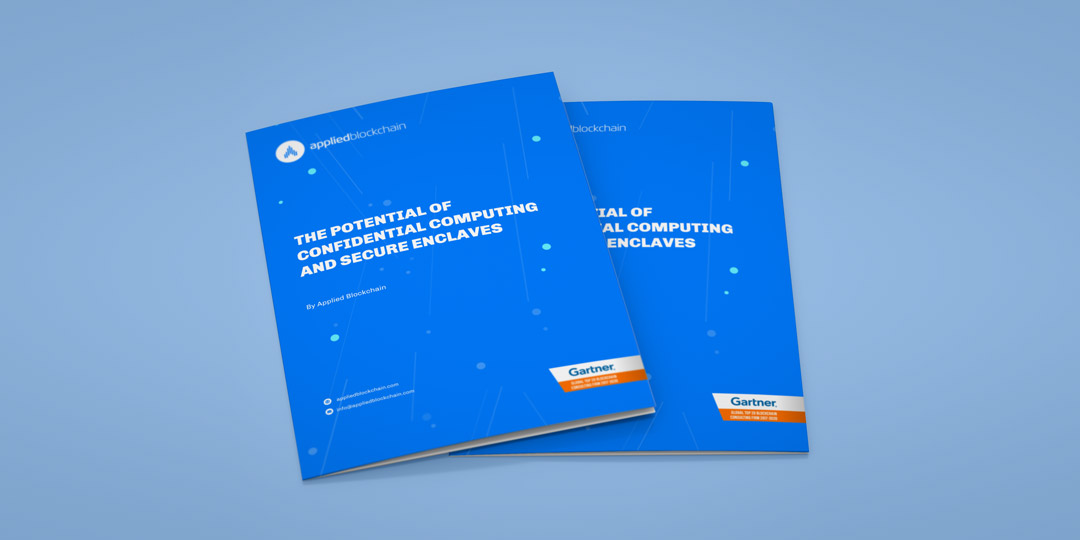
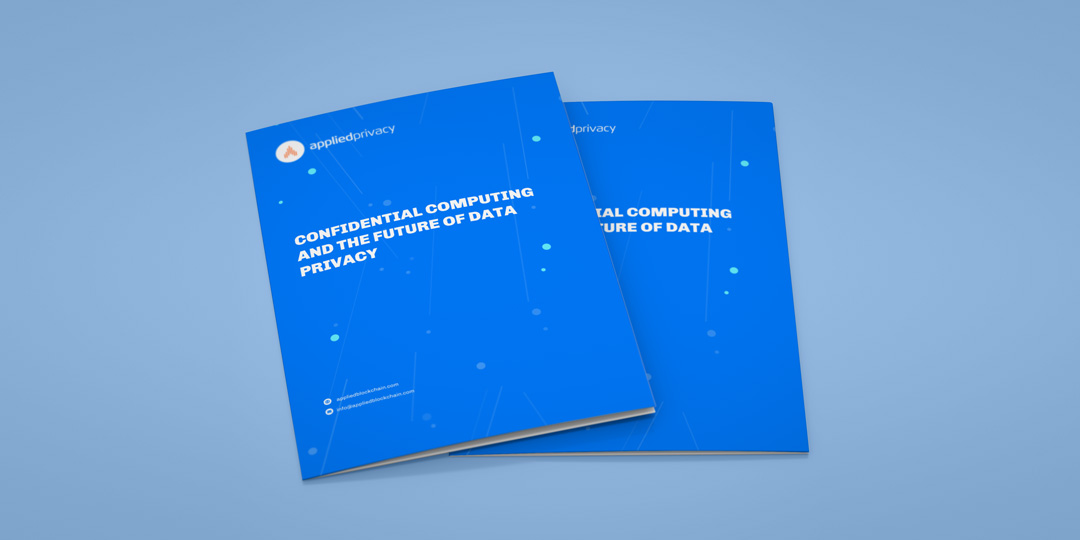
content: applied-privacy (update report title and image)

diff --git a/applied-privacy.html b/applied-privacy.html
@@ -64,7 +64,7 @@ background_image: applied-privacy.svg
 <section class="section">
   {% include containers/sections/header.html
     comment = 'Register interest and get our report'
-    title = 'The potential of confidential computing and secure enclaves'
+    title = 'Confidential computing and the future of data privacy'
     body = 'A new data privacy technology is becoming available in the mainstream, and we believe it opens up a wealth of opportunities. In this paper we explain secure enclaves and the breadth of new business applications they present.'
   %}
   <div class="section__content">
